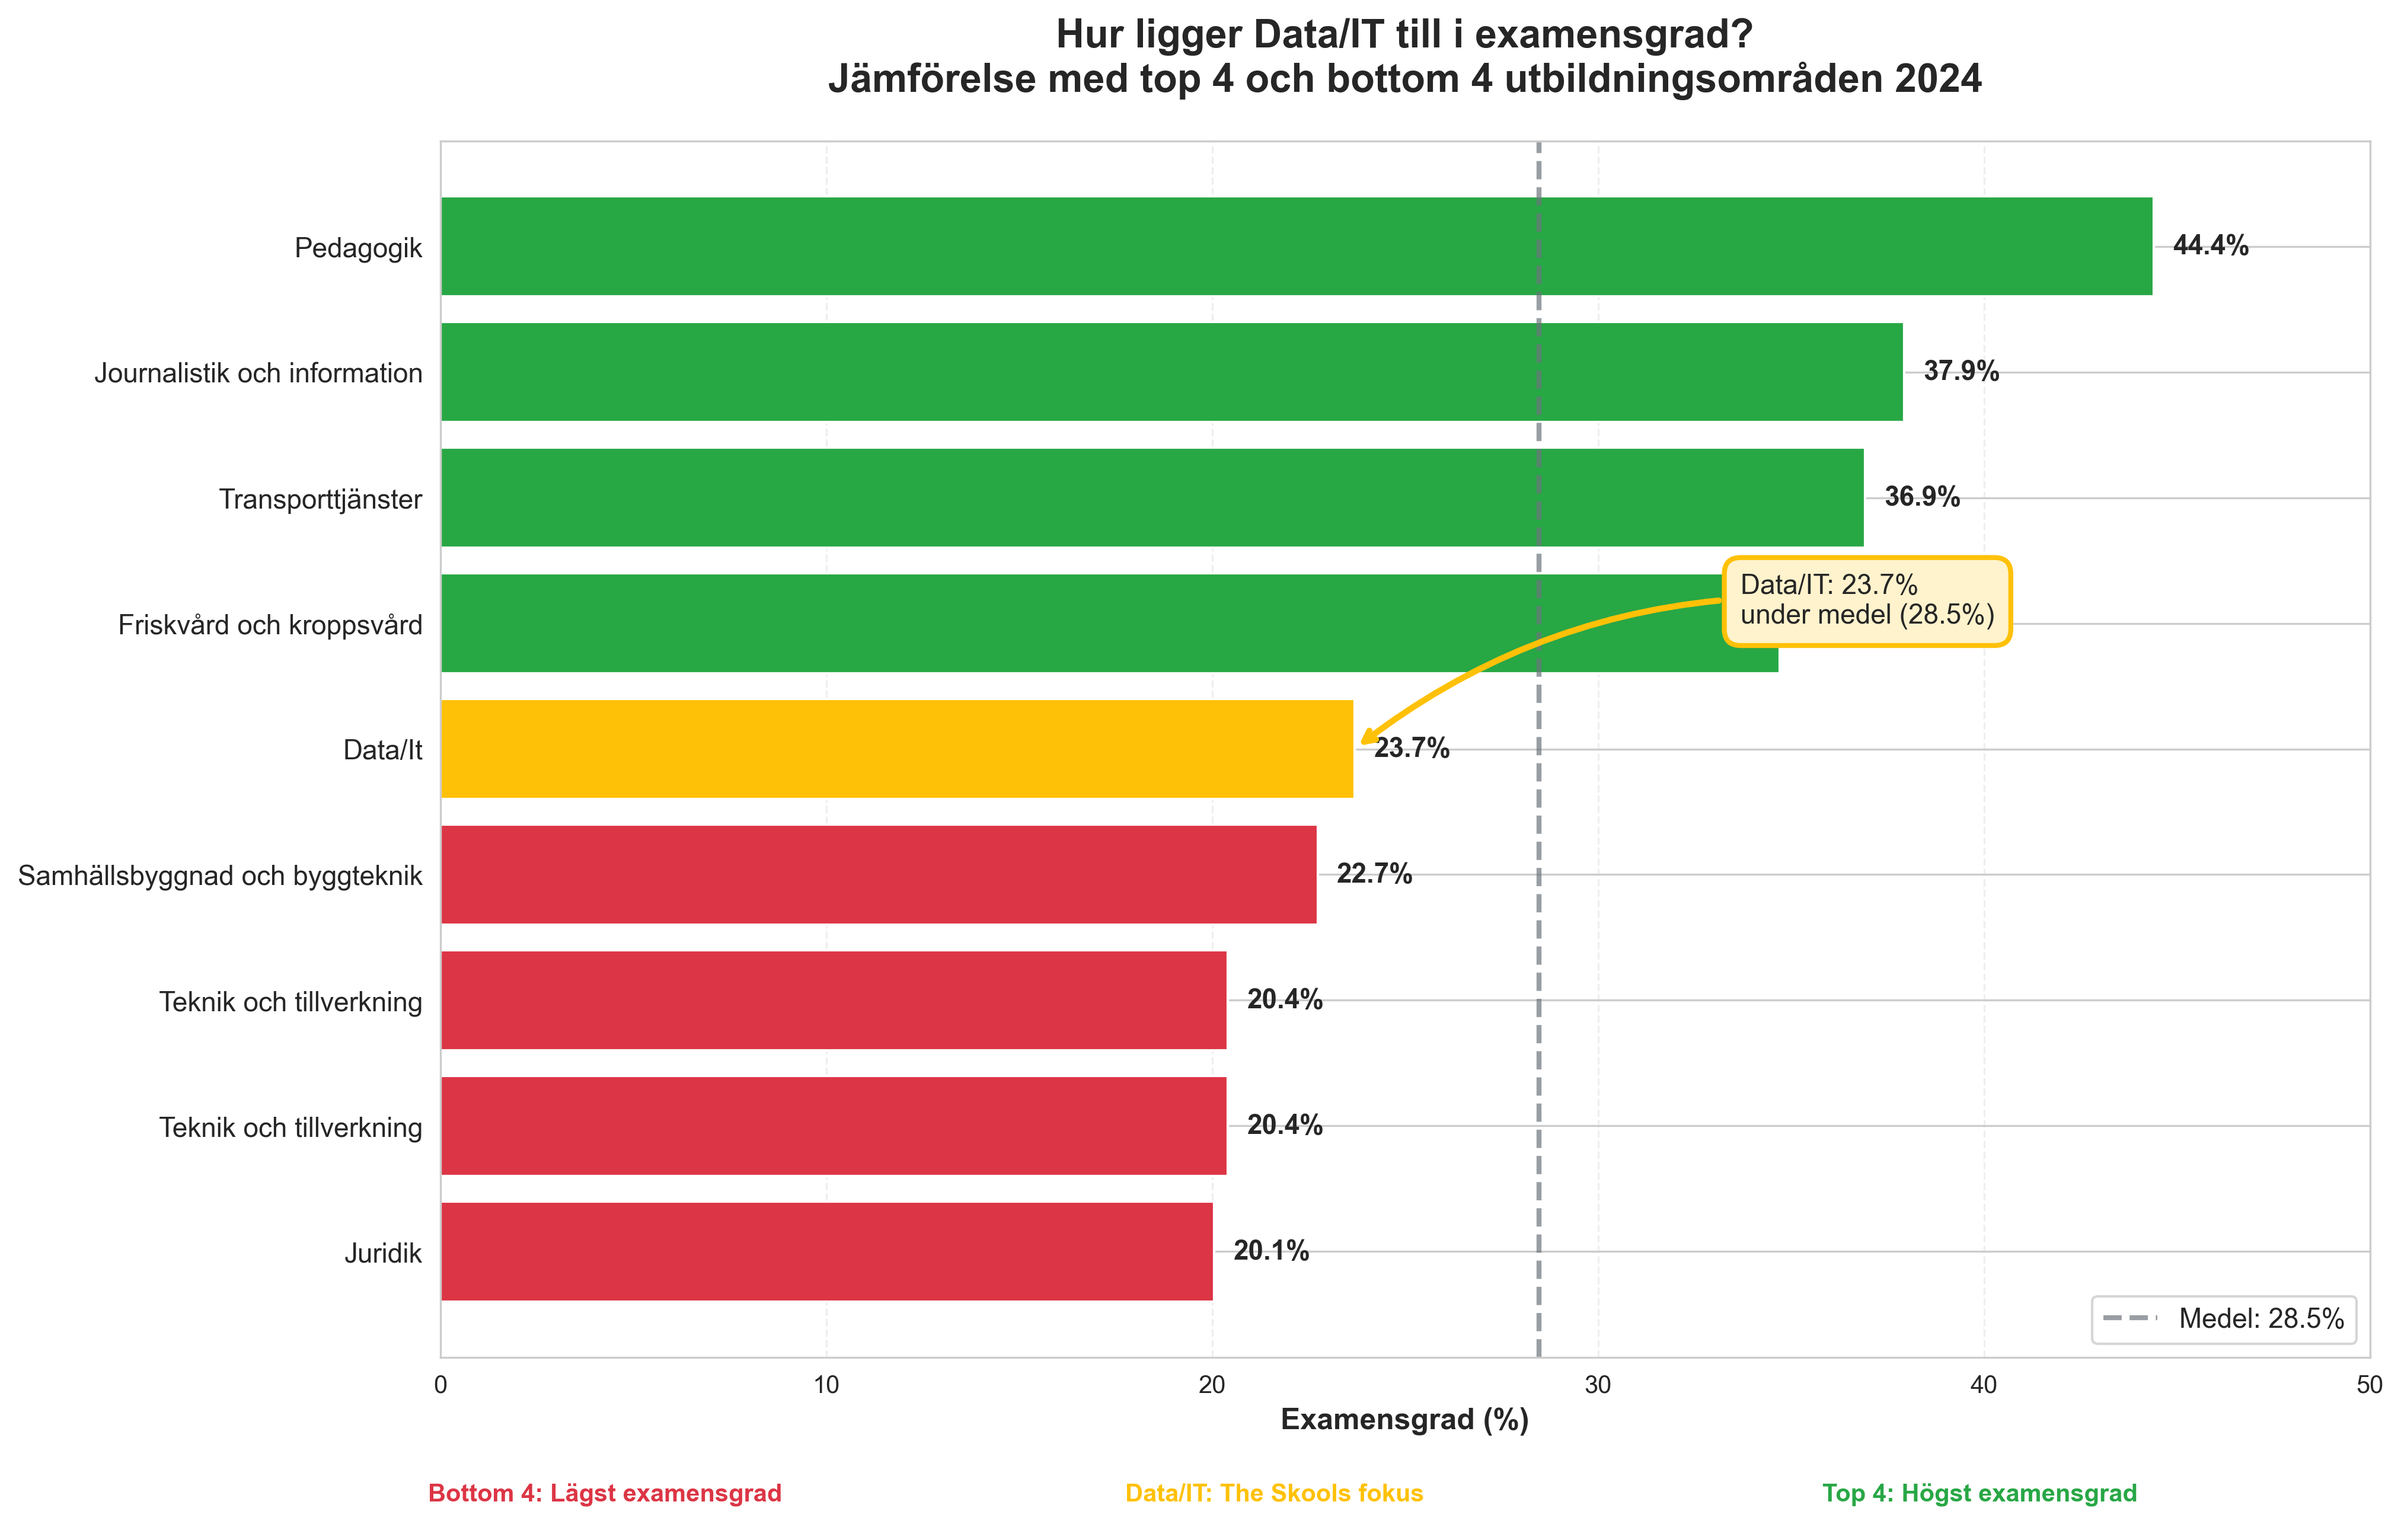
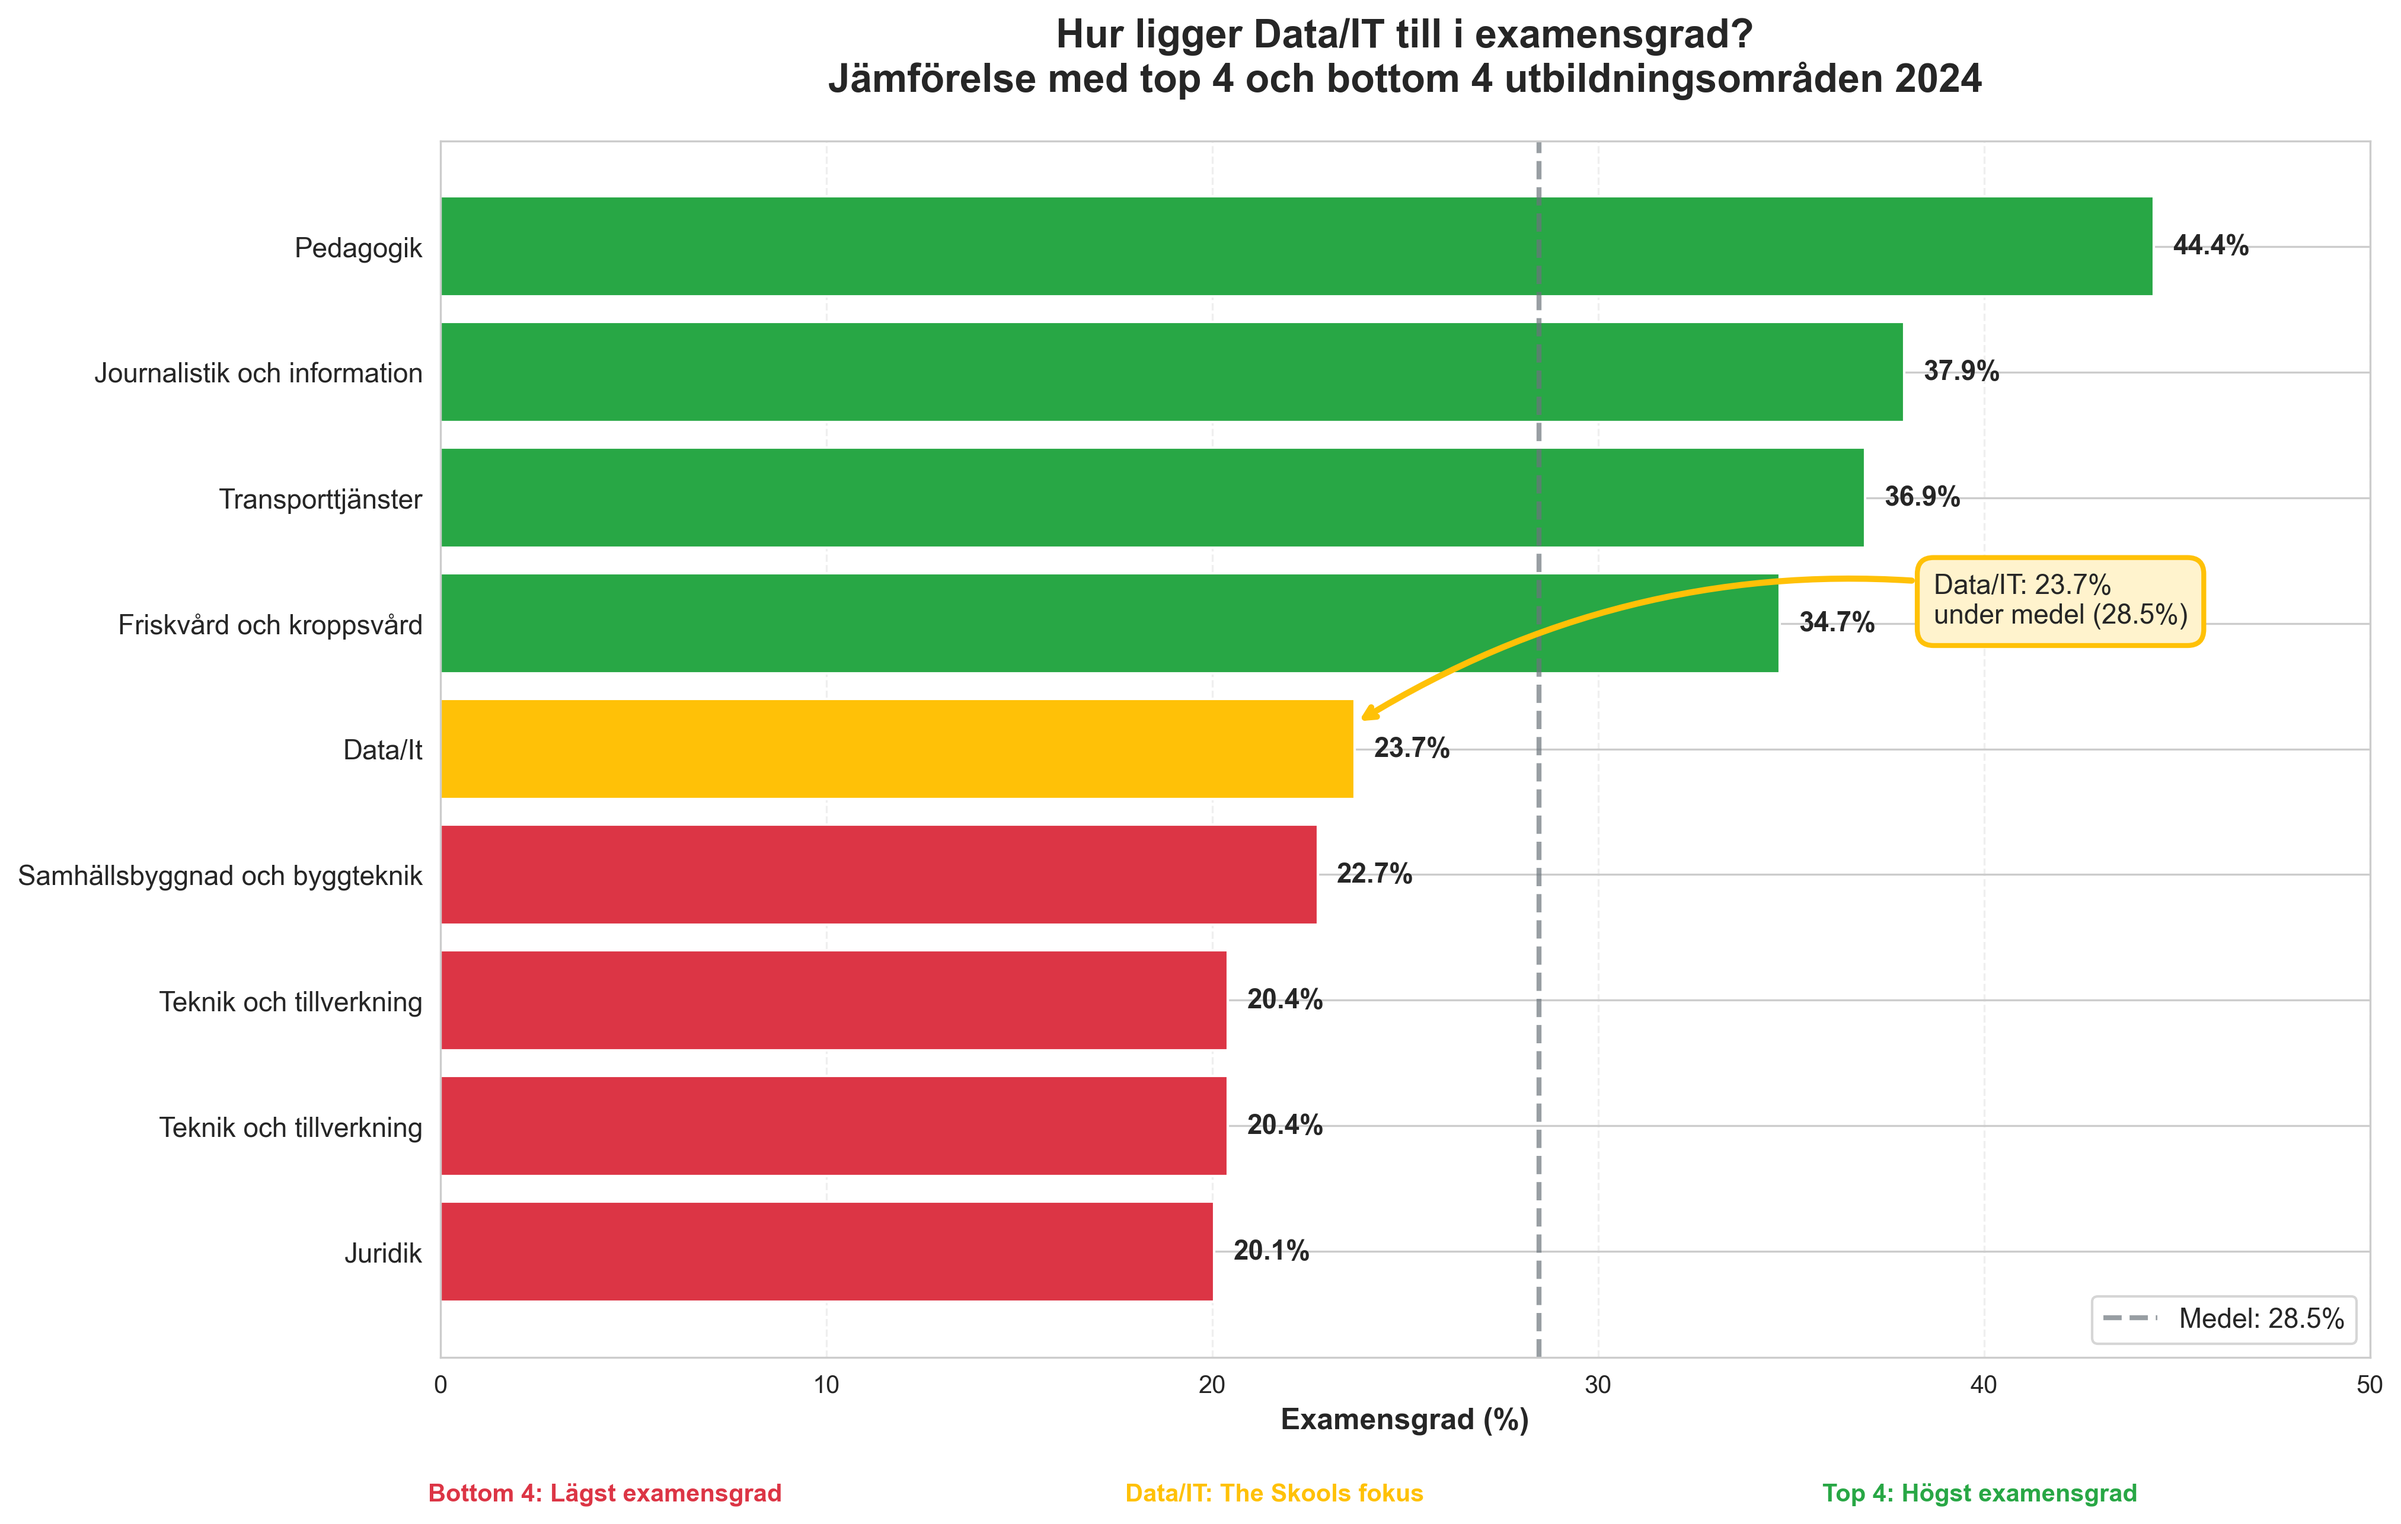
improve storytelling visualizations and add hover percentages to stacked bars

Changed region(s): [[0.6222, 0.3423, 0.9333, 0.4356], [0.56, 0.4356, 0.6222, 0.4979]]

diff --git a/frontend/charts.py b/frontend/charts.py
@@ -86,6 +86,11 @@ def create_stacked_bar_chart(data):
     top_areas = data.groupby('Utbildningsområde').size().sort_values(ascending=False).head(10).index
     grouped = grouped[grouped['Utbildningsområde'].isin(top_areas)]
 
+    # Beräkna totalt per område och procentsatser
+    totals = grouped.groupby('Utbildningsområde')['Antal'].sum().to_dict()
+    grouped['Totalt'] = grouped['Utbildningsområde'].map(totals)
+    grouped['Procent'] = (grouped['Antal'] / grouped['Totalt'] * 100).round(1)
+
     fig = px.bar(
         grouped,
         x='Utbildningsområde',
@@ -94,10 +99,11 @@ def create_stacked_bar_chart(data):
         title="Kurser vs Program per Utbildningsområde (Marknadsöversikt - Top 10)",
         labels={'Utbildningsområde': 'Utbildningsområde', 'Antal': 'Antal ansökningar'},
         color_discrete_map={'Kurs': '#8b5cf6', 'Program': '#06b6d4'},
-        barmode='stack'
+        barmode='stack',
+        custom_data=['Procent', 'Totalt']
     )
 
-    fig.update_traces(hovertemplate='<b>%{x}</b><br>%{fullData.name}: %{y}<extra></extra>')
+    fig.update_traces(hovertemplate='<b>%{x}</b><br>%{fullData.name}: %{y} st (%{customdata[0]}%)<br>Totalt: %{customdata[1]} ansökningar<extra></extra>')
 
     fig.update_layout(
         height=500,
@@ -113,6 +119,11 @@ def create_beslut_bar_chart(data):
     top_areas = data.groupby('Utbildningsområde').size().sort_values(ascending=False).head(10).index
     grouped = grouped[grouped['Utbildningsområde'].isin(top_areas)]
 
+    # Beräkna totalt per område och procentsatser
+    totals = grouped.groupby('Utbildningsområde')['Antal'].sum().to_dict()
+    grouped['Totalt'] = grouped['Utbildningsområde'].map(totals)
+    grouped['Procent'] = (grouped['Antal'] / grouped['Totalt'] * 100).round(1)
+
     fig = px.bar(
         grouped,
         x='Utbildningsområde',
@@ -121,10 +132,11 @@ def create_beslut_bar_chart(data):
         title="Beviljad vs Avslag per Utbildningsområde (Marknadsöversikt - Top 10)",
         labels={'Utbildningsområde': 'Utbildningsområde', 'Antal': 'Antal ansökningar'},
         color_discrete_map={'Beviljad': '#10b981', 'Avslag': '#ef4444'},
-        barmode='stack'
+        barmode='stack',
+        custom_data=['Procent', 'Totalt']
     )
 
-    fig.update_traces(hovertemplate='<b>%{x}</b><br>%{fullData.name}: %{y}<extra></extra>')
+    fig.update_traces(hovertemplate='<b>%{x}</b><br>%{fullData.name}: %{y} st (%{customdata[0]}%)<br>Totalt: %{customdata[1]} ansökningar<extra></extra>')
 
     fig.update_layout(
         height=500,

diff --git a/frontend/pages/storytelling_page.py b/frontend/pages/storytelling_page.py
@@ -8,22 +8,34 @@ with tgb.Page() as storytelling_page:
     tgb.text("**Strategiska insikter om Data/IT inom YH**", mode="md", class_name="text-center")
     tgb.html("br")
 
-    # ===== ROW 1: VISUALIZATION 1 & 2 =====
-    with tgb.layout(columns="1 1"):
-        with tgb.part(class_name="card"):
-            tgb.image("outputs/storytelling_1_approval_by_area.png", width="100%")
-
-        with tgb.part(class_name="card"):
-            tgb.image("outputs/storytelling_2_datait_trend.png", width="100%")
+    # ===== VISUALIZATION 1 =====
+    with tgb.part(class_name="card"):
+        tgb.text("### 1. Varför är Data/IT så svårt?", mode="md")
+        tgb.text("*Godkännandegrad per utbildningsområde - Data/IT har lägst godkännandegrad trots flest ansökningar*", mode="md", class_name="text-muted")
+        tgb.image("outputs/storytelling_1_approval_by_area.png", width="100%")
 
     tgb.html("br")
 
-    # ===== ROW 2: VISUALIZATION 3 & 4 =====
-    with tgb.layout(columns="1 1"):
-        with tgb.part(class_name="card"):
-            tgb.image("outputs/storytelling_3_geographic_opportunity.png", width="100%")
+    # ===== VISUALIZATION 2 =====
+    with tgb.part(class_name="card"):
+        tgb.text("### 2. Blir Data/IT bättre eller sämre över tid?", mode="md")
+        tgb.text("*Trend för Data/IT ansökningar och godkännandegrad 2022-2024*", mode="md", class_name="text-muted")
+        tgb.image("outputs/storytelling_2_datait_trend.png", width="100%")
 
-        with tgb.part(class_name="card"):
-            tgb.image("outputs/storytelling_4_graduation_rate.png", width="100%")
+    tgb.html("br")
+
+    # ===== VISUALIZATION 3 =====
+    with tgb.part(class_name="card"):
+        tgb.text("### 3. Var finns de bästa möjligheterna geografiskt?", mode="md")
+        tgb.text("*Godkännandegrad per län för Data/IT - stora regionala skillnader*", mode="md", class_name="text-muted")
+        tgb.image("outputs/storytelling_3_geographic_opportunity.png", width="100%")
+
+    tgb.html("br")
+
+    # ===== VISUALIZATION 4 =====
+    with tgb.part(class_name="card"):
+        tgb.text("### 4. Hur ser examensgraden ut?", mode="md")
+        tgb.text("*Examensgrad per utbildningsområde - andel studenter som slutför sina studier*", mode="md", class_name="text-muted")
+        tgb.image("outputs/storytelling_4_graduation_rate.png", width="100%")
 
     tgb.html("br")

diff --git a/storytelling.py b/storytelling.py
@@ -117,7 +117,7 @@ def create_storytelling_approval_by_area(df, save_path="outputs/storytelling_1_a
     # Räkna totalt antal ansökningar för Data/IT
     datait_total = df[df['Utbildningsområde'] == 'Data/IT'].shape[0]
 
-    annotation_text = f"Data/IT: Bara {datait_value:.0f}% godkänt\n#1 mest sökta: {datait_total} ansökningar!"
+    annotation_text = f"Data/IT: Bara {datait_value:.1f}% godkänt\n#1 mest sökta: {datait_total} ansökningar!"
 
     ax.annotate(annotation_text,
                 xy=(datait_value, datait_idx),
@@ -192,7 +192,7 @@ def create_storytelling_datait_trend(df, save_path="outputs/storytelling_2_datai
     annotation_text = f"2023: Bästa chansen!\n{best_value:.1f}% godkänt"
 
     ax.annotate(annotation_text,
-                xy=(best_year, best_value),
+                xy=(best_year +0.01, best_value + 0.5),
                 xytext=(best_year + 0.3, best_value + 5),
                 fontsize=11,
                 bbox=dict(boxstyle='round,pad=0.6', facecolor='#e6ffe6', edgecolor='#28a745', linewidth=2),
@@ -284,7 +284,7 @@ def create_storytelling_geographic_opportunity(df, save_path="outputs/storytelli
     worst_count = bottom_5['Totalt'].values[0]
 
     ax.annotate(f"{worst_lan}: {worst_value:.1f}% godkänt\nSvårast ({int(worst_count)} ansökningar)",
-                xy=(3, worst_lan_idx),
+                xy=(7.8, worst_lan_idx - 0.2),
                 xytext=(15, worst_lan_idx + 0.8),
                 fontsize=10,
                 bbox=dict(boxstyle='round,pad=0.5', facecolor='#ffe6e6', edgecolor='#dc3545', linewidth=2),
@@ -437,8 +437,8 @@ def create_storytelling_graduation_rate(save_path="outputs/storytelling_4_gradua
         comparison = f"under medel ({medel_examensgrad:.1f}%)"
 
     ax.annotate(f"Data/IT: {datait_value:.1f}%\n{comparison}",
-                xy=(datait_value, datait_idx),
-                xytext=(datait_value + 10, datait_idx + 1),
+                xy=(datait_value, datait_idx + 0.2),
+                xytext=(datait_value + 15, datait_idx + 1),
                 fontsize=11,
                 bbox=dict(boxstyle='round,pad=0.6', facecolor='#fff3cd', edgecolor='#ffc107', linewidth=2),
                 arrowprops=dict(arrowstyle='->', color='#ffc107', lw=2.5, connectionstyle='arc3,rad=0.2'))
